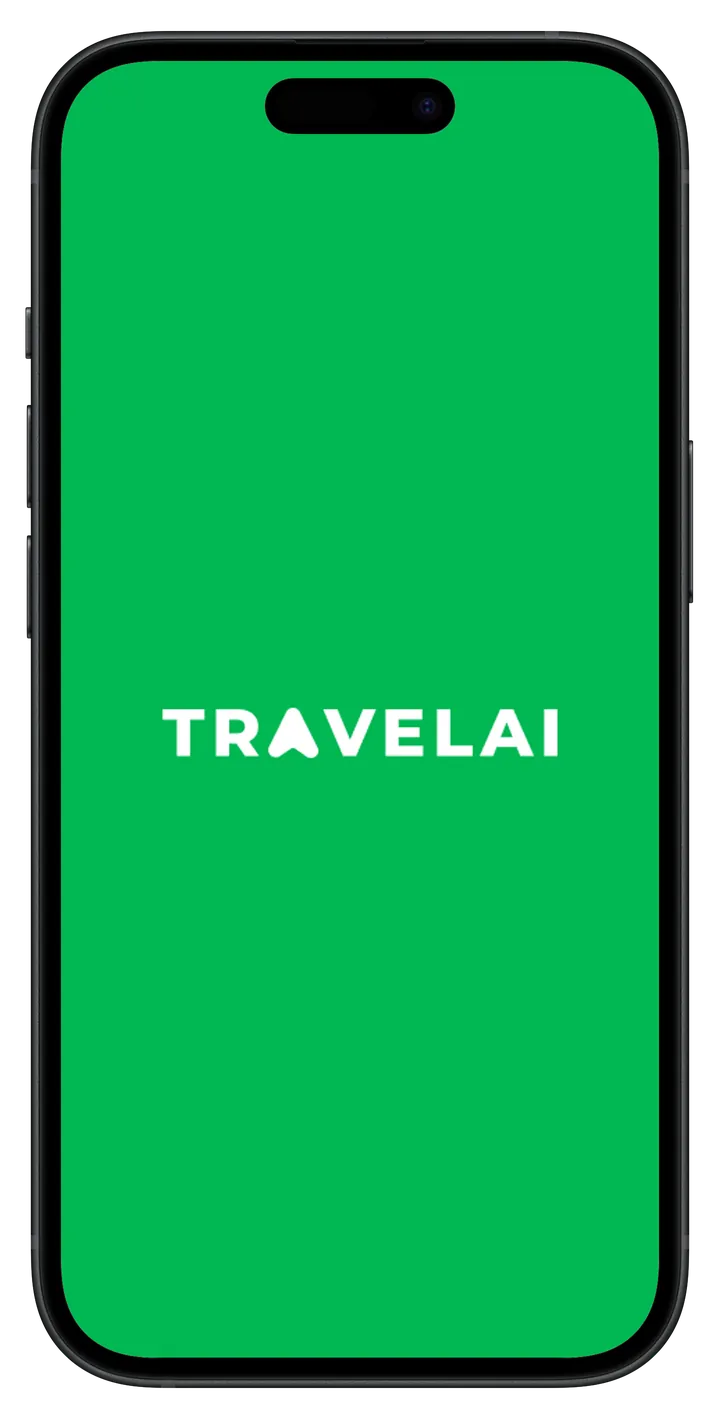
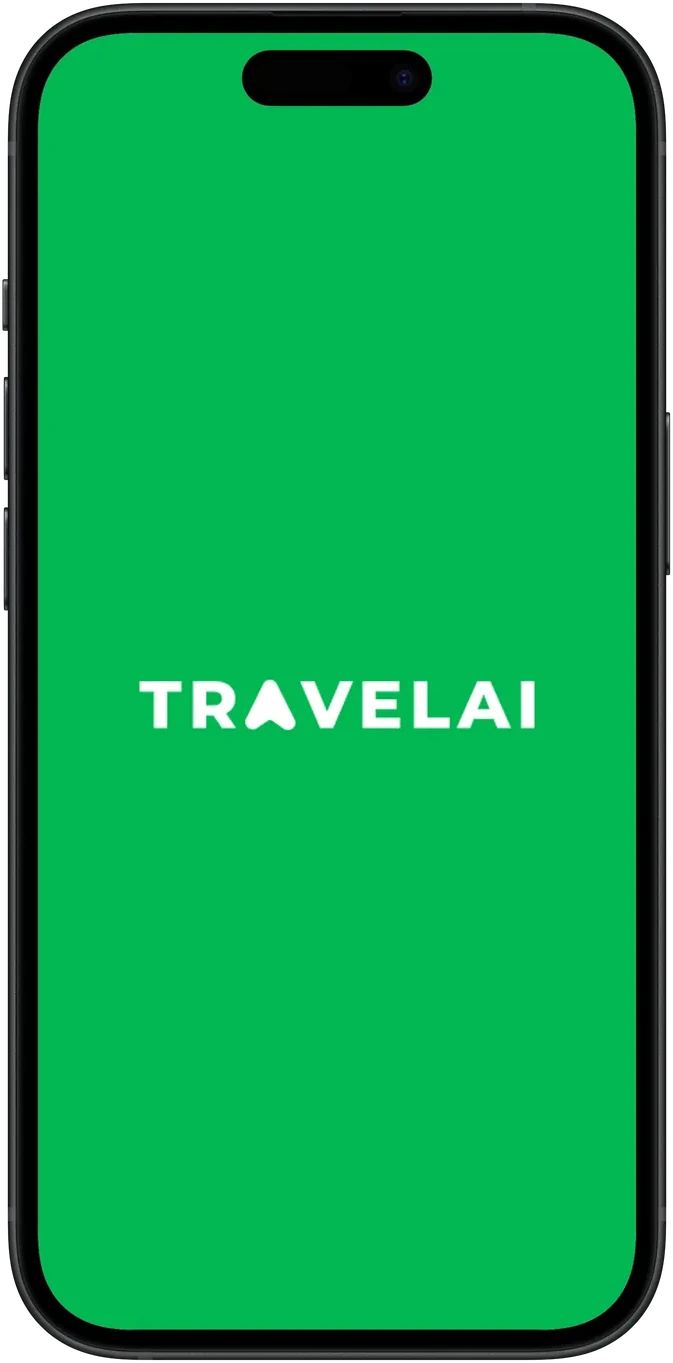
feat: screenshots trimmed to their phone frames and private details blurred
- tool/trim_screens.py crops the transparent margin off every screenshot so all screens share one size
- the Sevkiyatvar listing detail hides a company name and phone number

Changed region(s): [[0.0, 0.0, 0.9985, 1.0], [0.1872, 0.493, 0.8113, 0.5547]]

diff --git a/tool/trim_screens.py b/tool/trim_screens.py
@@ -1,0 +1,46 @@
+"""Trims the transparent edges off every project screenshot, in place.
+
+Screenshots are flat phone screens; covers and grids size them by their
+own edges, so a transparent margin would shrink a screen next to the
+others. Run it again after adding screenshots:
+
+    python3 -m pip install pillow
+    python3 tool/trim_screens.py
+
+Prints each file's size and aspect ratio (width / height) afterwards;
+every screen should be close to the others (about 0.49).
+"""
+
+import pathlib
+import sys
+
+from PIL import Image
+
+ROOT = pathlib.Path(__file__).resolve().parent.parent
+SCREENS = sorted(ROOT.glob("assets/images/*/*_screenshots_*.webp"))
+
+
+def trim(path: pathlib.Path) -> tuple[int, int, bool]:
+    image = Image.open(path)
+    image.load()
+    box = image.getchannel("A").getbbox() if image.mode == "RGBA" else None
+    changed = box is not None and box != (0, 0, *image.size)
+    if changed:
+        image = image.crop(box)
+        image.save(path, "WEBP", quality=90, method=6)
+    return (*image.size, changed)
+
+
+def main() -> int:
+    if not SCREENS:
+        print("no screenshots found", file=sys.stderr)
+        return 1
+    for path in SCREENS:
+        width, height, changed = trim(path)
+        mark = "trimmed" if changed else "kept"
+        print(f"{path.relative_to(ROOT)}  {width}x{height}  {width / height:.3f}  {mark}")
+    return 0
+
+
+if __name__ == "__main__":
+    sys.exit(main())
